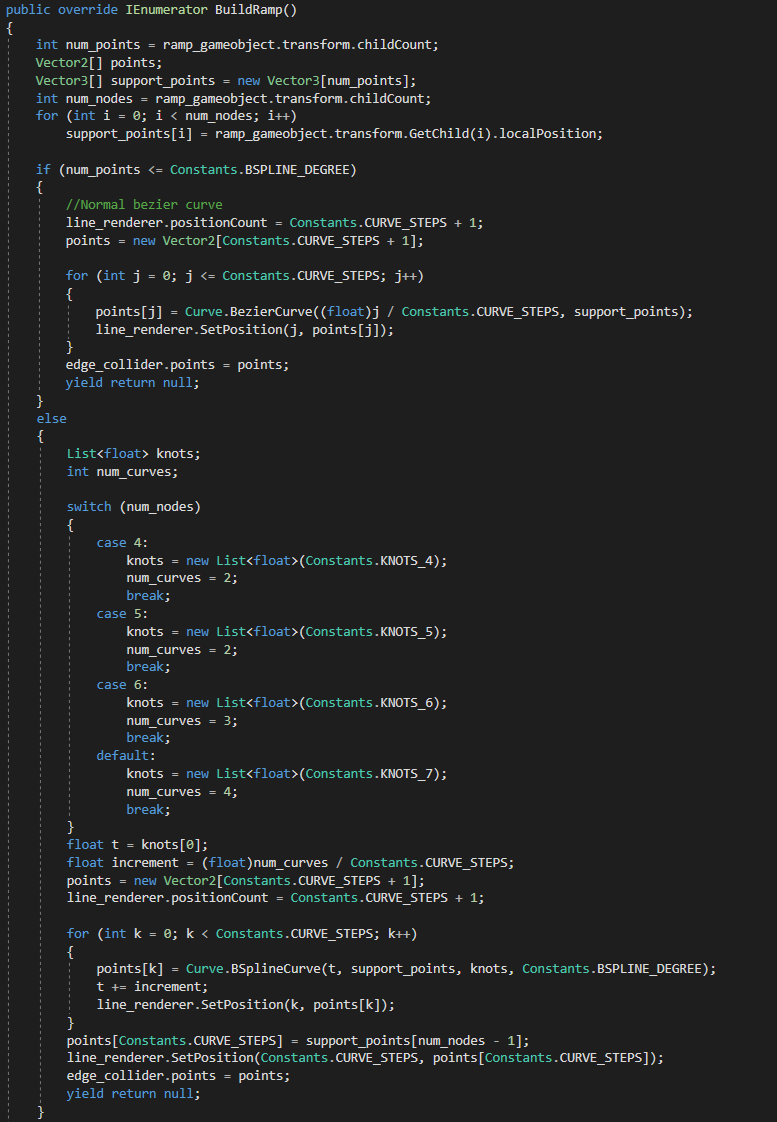
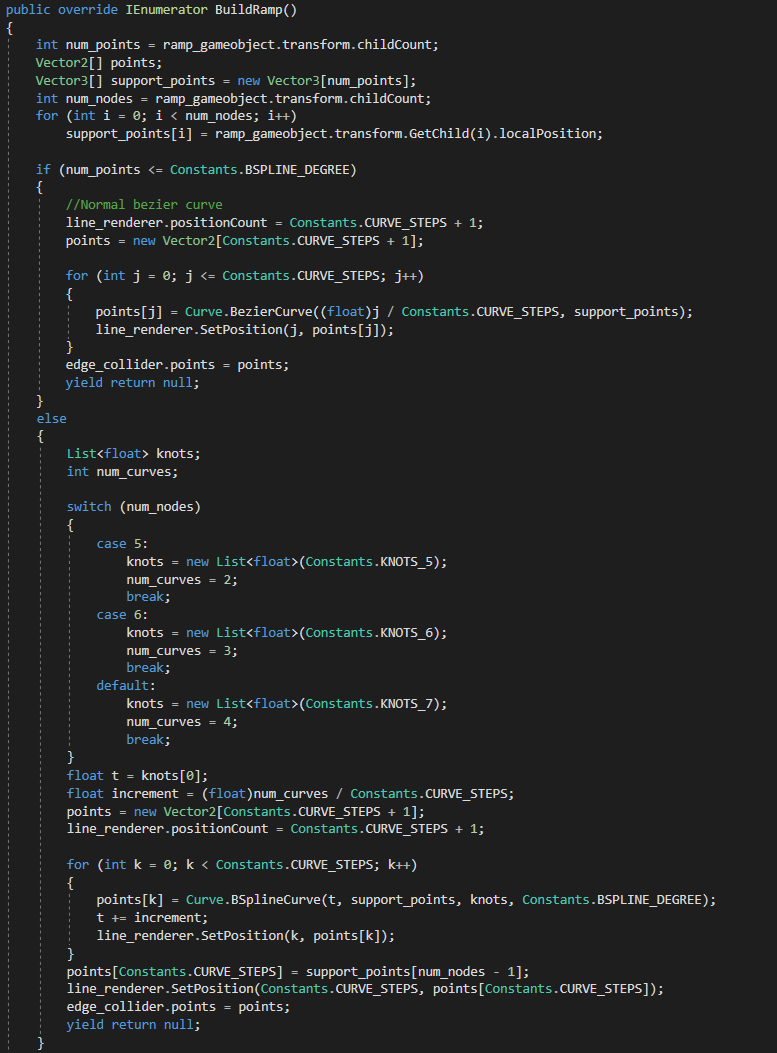
Website adjustments.

Changed region(s): [[0.0, 0.0, 0.9266, 1.0]]

diff --git a/website/theory.html b/website/theory.html
@@ -48,42 +48,41 @@
         </ul>
           Essendo il gioco 2D, tutte le curve sopracitate sono curve piane, ovvero, curve il cui poligono di controllo
           giace su un piano; questo implica che hanno torsione pari a 0.<br>
-          Ci sono anche le rampe segmentate, che sono ottenute creando segmenti lungo i punti del poligono di controllo.
-          Il progetto è stato sviluppato con il game engine di Unity; per ogni rampa curva mostrata in questa pagina,
-          verrà data la rispettiva definizione matematica, la definizione matematica implementata e il codice che disegna
-          la curva nel gioco. <br>
-          Le rampe curve create nel gioco, sono composte da 20 segmenti connessi tra loro, lungo i punti della curva(ottenuti tramite le definizioni matematiche).
+          In questa pagina vengono trattate le rampe curve, sia dal punto di vista matematico, sia dal punto di vista implementativo.<br>
+          Le rampe curve create nel gioco discretizzate in 20 segmenti connessi tra loro, lungo i punti della curva(ottenuti tramite le definizioni matematiche).
+          Oltre alle rampe curve, ci sono anche le rampe segmentate, che sono ottenute creando segmenti lungo i punti del poligono di controllo; essendo di semplice
+          costruzione, non sono trattate in questa pagina.<br>
+          Il progetto è stato sviluppato tramite il game engine di Unity.
         </p>
 
         <h3>Interpolazione</h3>
         <p>
-          Nel gioco sono presenti degli ostacoli che si muovono secondo dei percorsi prestabiliti; ogni percorso, è composto
-          da diversi nodi. <br>
-          Questi elementi si muovono tramite interpolazione, sfruttando le posizioni di coppie di nodi del percorso;
-          quando questo raggiunge il secondo nodo, l'ostacolo prenderà la coppia di nodi successivi e l'interpolazione riprende da 0. <br>
-          A ognuno di questi ostacoli viene associata un curva, definita su un intervallo variabile, che utilizza per eseguire l'interpolazione.
-          Alcuni oggetti si muovono, tramite interpolazione lineare, mentre altri in modo più strano grazie alle curve.<br>
-          A seguito il codice usato per la gestione del movimenti e una piccola dimostrazione visiva del risultato.<br>
+          Nel gioco sono presenti degli ostacoli che si muovono secondo dei percorsi prestabiliti; per spiegare come questi oggetti si muovono, consideriamo un ostacolo mobile, a cui viene associato il percorso 
+          \({P_0, P_{1} ... P_N}\).<br>
+          Gli ostacoli nel gioco si muovono per interpolazione tra coppie di punti del percorso assegnatogli. <br>
+          La prima coppia di punti considerata nell'esempio è \(P_0, P_1\); partendo da \(P_0\), prima o poi, a seconda della curva che utilizzano per l'interpolazione, 
+          l'ostacolo raggiunge il punto \(P_1\) del percorso; a quel punto, cambia la coppia di punti utilizzata per l'interpolazione in \(P_1, P_2\), riprendendo l'interpolazione da 0.<br>
+          Questo processo continua, finché non raggiunge il punto finale del percorso, ovvero \(P_N\); a quel punto, si riparte con la coppia \(P_0, P_1\). <br>
+          Tutti gli ostacoli si muovono seguendo questa logica, usando percorsi diversi e curve diverse. <br>
+          A seguito il codice usato per la gestione del movimenti e una piccola dimostrazione del risultato.<br>
           <img class="code_image" src="images/interpolation_code.PNG">
           <img class="centre_big_gif" src="images/obstacle.gif">
-          L'ostacolo che si muove nella gif sopra, si muove usando la curva sottostante per effettuare l'interpolazione.
+          L'ostacolo che si muove nella gif sopra, si muove usando la curva sottostante, sul percorso definito dai punti arancioni.
           <img class="centre_big_image" src="images/curve.png">
         </p>
         <h3 id="bezier">Curve di Beziér</h3>
         <p>
           Una curva di Beziér è una curva parametrica polinomiale definita sull'intervallo chiuso [0, 1]; per costruire
-          una curva di Beziér
-          per prima cosa bisogna definire N punti che andranno a costruire il suo poligono di controllo.<br>
-          Definiti N punti di controllo, il grado K della curva è pari a N-1, cioé il numero di
-          punti del poligono di controllo meno 1; come già detto nel manuale utente, per ogni curva, il giocatore può
-          usare al massimo 7 punti.<br> Questo significa che il grado massimo delle curve di Beziér utilizzate sarà 6.<br>
+          una curva di Beziér, bisogna definire \(N\) punti che andranno a costruire il suo poligono di controllo.<br>
+          \(N\) punti di controllo definiscono il grado della curva, che è  \(N-1\); come già detto nel manuale, per ogni curva, il giocatore può
+          usare al massimo 7 punti.<br> 
+          Questo significa che il grado massimo delle curve di Beziér utilizzate sarà 6.<br>
 
           Le curve di Beziér prodotte dal giocatore, sono costruite tramite i polinomi di Bernstein.
         </p>
         <h4>Algoritmo dei polinomi di Bernstein</h4>
         <p>
           Questo algoritmo descrive una curva di Beziér tramite i polinomi di Bernstein, definiti come segue:
-        <p>
           \(P(t) = \sum_{i = 0}^{k} B_i^k(t) * P_i\)<br>
         </p>
         <p>
@@ -112,18 +111,31 @@
           termina nel punto finale.<br>
           L'implementazione dell'algoritmo di Bernstein utilizzata è la seguente:
           <img class="code_image" src="images/bezier_code.PNG">
-          Mentre la sezione il codice che sfrutta l'algoritmo per creare la curva nello spazio di gioco è il seguente:
+          Mentre il codice nell'immagine di sotto, mostra come effettivamente la rampa viene costruita nel gioco.<br>
+          I punti del poligono di supporto sono definiti dalle posizioni in coordinate locali, rispetto alla trasformazione della curva; questa operazione è svolta dal primo ciclo. <br>
+          Nel secondo ciclo, la curva viene discretizzata in 21 punti, che vengono poi utilizzati dal LineRenderer(per disegnarla) e dall'EdgeCollider(per descriverla al motore fisico).<br>
+          Il codice qui mostrato è molto simile a quello usato alle altre curve: l'unica cosa che cambia sono le definizioni matematiche usate.<br>
           <img class="code_image" src="images/bezier_ramp.PNG">
+          Queste curve, nonostante siano semplici da definire e costruire, soffrono di 2 grossi problemi:
+        <ul>
+          <li>
+            Nessun controllo locale: ogni volta che modifichiamo una curva di Beziér esistente, cambiamo la definizione della curva stessa.
+          </li>
+          <li>
+            Non adatte per costruire curve lunghe: come sappiamo dalla teoria, il grado di una curva di Beziér dipende dal numero di punti; 
+            questo implica, che più punti definiamo per una curva, più la sua valutazione e modifica diventa più onerosa.<br>
+            Per questo motivo, si preferiscono le curve spline in questi contesti.
+          </li>
+        </ul>
         </p>
         <h3 id="hermite">Spline cubiche di Hermite</h3>
         <p>
           Una spline cubica di Hermite è una curva composta da curve di Beziér di grado 3, incollate
-          lungo i punti del poligono di controllo con incollamento C1; essendo ogni frammento della spline una curva di Beziér, tutte le sue parti
-          sono definite da funzioni polinomiali definite sul medesimo intervallo [0, 1].<br>
-          A differenza delle curve di Beziér però, l'interpolazione nei vari frammenti della spline, viene fatta considerando una a una, le coppie di punti (del poligono di controllo)
-          ai quali vengono associati anche dei vettori tangenti.<br>
+          lungo i punti del poligono di controllo con incollamento C1; tutte le parti sono parametrizzate sul medesimo intervallo [0, 1].<br>
+          Per definire queste spline, oltre a fornire gli \(N\) punti del poligono di controllo, bisogna anche definire gli \(N\) vettori tangenti 
+          associati a questi.<br>
+          Questi vettori tangenti, impongono le direzioni tangenti, che le varie curve di Beziér devono rispettare lungo la spline; questo implica che gli incollamenti della curva sono di tipo \(C1\).<br>
           Le curve di Hermite che si possono costruire nel gioco, possono avere al massimo 7 punti.<br>
-
           La definizione matematica di queste spline è basata sui polinomi di Hermite \(H\): dati i punti \(Q_0\) e \(Q_1\) ai quali sono associati i vettori tangenti \(m_0\) e \(m_1\), 
           è possibile definire i punti di controllo \(P_0\),\(P_1\),\(P_2\) e \(P_3\) di un frammento della curva in questo modo:
         </p>
@@ -166,11 +178,13 @@
           <img class="code_image" src="images/hermite_code.PNG">
           Il modulo dei vettori associati a ciascun punto è una costante(6). 
           <img class="code_image" src="images/hermite_ramp.PNG">
+          Questo tipo di curve, sono preferite rispetto alle classiche curve di Beziér perché non soffrono dei problemi precedentemente citati.
+
         </p>   
         <h3 id="bspline">B-Spline</h3>
         <p>
-          Le curve b-spline, come le spline cubiche di Hermite sono curve composte da curve di Beziér(di grado 3 in questo progetto) opportunamente incollate; le b-spline, a differenza 
-          delle cubiche di Hermite, non passano nei punti identificati dal poligono di controllo, ma si limitano ad approssimarli.<br>
+          Le curve b-spline, come le spline cubiche di Hermite sono curve composte da curve di Beziér opportunamente incollate; a differenza 
+          delle cubiche di Hermite, non passano nei punti identificati dal poligono di controllo, ma si limitano ad approssimare i punti del poligono di controllo.<br>
           Il dominio di queste curve diversamente da quelle che abbiamo visto fin'ora, non necessariamente è [0, 1]. <br>
           Esistono 3 tipi di b-spline:
           <ul>
@@ -184,14 +198,21 @@
               b-spline non uniformi razionali: chiamate anche "nurbs", definite come rapporto di curve polinomiali. 
             </li>
           </ul>
-          In Spline Ramp, le b-spline generate sono tutte b-spline cubiche uniformi, composte al massimo da 7 punti; 
-          questo vuol dire, che se i punti usati per il poligono di controllo sono meno di 4, quello che si produrrà sarà una curva di Beziér di quel grado. <br>
-          La parametrizzazione degli elementi di una b-spline sfrutta un vettore di valori, chiamato vettore nodi, che contiene una sequenza di valori crescenti. <br>
-          Ciascuna coppia di valori nodali \(t_i\) e \(t_{i+1}\) sono i parametri di interpolazione, utilizzati da una certa curva che compone la b-spline.<br>
-          I valori contenuti in questo vettore, possono essere ripetuti, alterando la continuità della curva che si andrà a costruire; in particolare, ripetendo 
-          un valore nodale nel vettore nodi, tante volte quante il grado delle curve di Beziér usate, forzerà la curva a passare per tale punto. <br>
+          In Spline Ramp, le b-spline generate sono tutte b-spline cubiche non-uniformi, composte al massimo da 7 punti. <br>
+          Il numero di curve incollate dipende dal numero di punti del poligono di controllo; supponiamo di avere la seguente sequenza di punti \(P_1, P_2 ... P_N\). <br>
+          Con \(N\) punti del poligono di controllo, si incollano \(N-3\) curve di Beziér cubiche (se \(N \gt 4\)).<br>
+          Nel caso in cui, il giocatore fornisca un numero di punti \(N\le 4\) per la costruzione della b-spline, l'applicazione genererà una curva di Beziér di grado \(N-1\). <br>
+          La parametrizzazione degli elementi di una b-spline sfrutta un vettore di valori crescenti, chiamato vettore nodi; ciascuna coppia di valori nodali \(t_i\) e \(t_{i+1}\) sono i parametri di interpolazione, utilizzati da una certa curva che compone la b-spline.
+          I valori contenuti in questo vettore, possono essere ripetuti, alterando la continuità della curva che si andrà a costruire.<br>
+          In particolare, ripetendo un valore nodale tante volte quante il grado \(K\) delle curve di Beziér usate, forzerà la curva a passare per tale punto. <br>
           Nel progetto infatti, i valori nodali iniziali e finali sono ripetuti 3 volte, per forzare le curve a passare per il punto iniziale e finale. <br>
-          L'implementazione scelta per la costruzione di queste curve è l'algoritmo di DeBoor-Cox.
+          Il tipo di incollamento di queste curve dipende da due elementi: la molteplicità del valore nodale in un certo nodo e il grado delle curve di Beziér incollate; dato quindi un nodo 
+          con molteplicità \(P\) e curve di grado \(K\), il tipo di incollamento presso quel nodo è di tipo \(C^{K-P}\); questo significa che nei punti iniziali e finali, le curve sono continue, ma non derivabili, 
+          mentre gli incollamenti interni sono tutti \(C2\) (supponendo che non ci siano nodi interni ripetuti). <br>
+          Deve inoltre valere una condizione tra il numero dei nodi \(M\), il grado della spline \(K\) e il grado delle curve di Beziér usate: \(M=N+K+1\).<br>
+          Un'ultima proprietà particolare di queste curve è relativa al grado delle curve di Beziér utilizzate: più è basso il grado delle curve di Beziér utilizzate, più la b-spline ottenuta approssima meglio il 
+          poligono di controllo fornito.<br>
+          Fatte queste premesse, passiamo quindi alla descrizione di queste curve tramite l'algoritmo di DeBoor-Cox.
         </p>
 
         <h4>Algoritmo di DeBoor-Cox</h4>
@@ -199,7 +220,7 @@
           Questo algoritmo definisce un punto della b-spline come somma dei punti del poligono di controllo, moltiplicati per funzioni base:
         </p>
         <p>
-          \(P(t) = \sum_{i = 0}^{m} B_{i, k}(t) * P_i\)<br>
+          \(P(t) = \sum_{i = 0}^{n-1} B_{i, k}(t) * P_i\)<br>
         </p>
         <p>
           Spieghiamo i termini e gli indici e termini che compaiono nella sommatoria appena scritta:
@@ -210,10 +231,10 @@
             \(P_i\): sono i punti del poligono di controllo
           </li>
           <li>
-            \(B_{i, k}(t)\): è una funzione base di \(i\) e \(k\) valutata su \(t\); a breve la definizione.
+            \(B_{i, k}(t)\): è una funzione base di \(i\) e \(k\) valutata su \(t\).
           </li>
           <li>
-            \(m\): è il numero di punti del poligono di controllo
+            \(n\): è il numero di punti del poligono di controllo
           </li>
           <li>
             \(k\): è il grado della b-spline(3)
@@ -232,7 +253,21 @@
           Questa definizione produce molte volte \(\frac{0}{0}\) che vengono gestiti come fattori 0.<br>
           A seguito il codice che implementa il tutto.
           <img class="code_image" src="images/bspline_code.PNG">
-          Questo è il codice che sfrutta la definizione matematica, per costruire la rampa nel gioco.
+          Questo è il codice che sfrutta la definizione matematica, per costruire la rampa nel gioco.<br>
+          Come si può vedere, nel caso in cui il numero di punti sia minore o uguale a 4, la curva prodotta è una normale curva di Beziér; in tutti gli altri casi, 
+          la b-spline è costruita.<br>
+          I vettori dei nodi sono vettori costanti sifatti: <br>
+          <ul>
+            <li>
+              KNOTS_5 = [0, 0, 0, 0, 1, 2, 2, 2, 2]
+            </li>
+            <li>
+              KNOTS_6 = [0, 0, 0, 0, 1, 2, 3, 3, 3, 3]
+            </li>
+            <li>
+              KNOTS_7 = [0, 0, 0, 0, 1, 2, 3, 4, 4, 4, 4]
+            </li>
+          </ul>
           <img class="code_image" src="images/bspline_ramp.PNG">
         </p>
       </div>

diff --git a/index.html b/index.html
@@ -14,11 +14,11 @@
   <body style="background-color:black;">
     <div class="container-fluid">
         <div class="row justify-content-center">
-            <div class="col">
-              <a href="index.html">
-                <img class="img-fluid mx-auto d-block" src="website/images/banner.png">
-              </a>
-            </div>
+          <div class="col">
+            <a href="index.html">
+              <img class="img-fluid mx-auto d-block" src="website/images/banner.png">
+            </a>
+          </div>
         </div>
         <div class="row pt-4">
           <div class="col text-center">
@@ -36,11 +36,11 @@
         <div class="row pt-4 pb-4">
           <div class="panel_index col">
             <p>
-              Spline ramp è puzzle game sviluppato da Pietro Prebianca, per il corso di Geometria Computazionale nell'a.a 2020/21.<br>
+              Spline ramp è un puzzle game sviluppato da Pietro Prebianca, per il corso di Geometria Computazionale nell'a.a 2020/21.<br>
               Nel gioco, il giocatore dovrà creare una rampa curva, per permettere a una palla di raggiungere il canestro; il progetto
               e il codice sorgente del gioco sono clonabili da <a href="https://github.com/Kegbird/SplineRamp">questa</a> repository.
             </p>
-              <img class="intro_gif text-center" src="website/images/game_example.gif">
+              <img class="centre_big_gif text-center" src="website/images/game_example.gif">
             </div>
        </div>
     </div>

diff --git a/website/game.html b/website/game.html
@@ -20,21 +20,19 @@
   <body style="background-color:black;">
     <div class="container pt-4">
       <div class="row justify-content-center">
-        <div class="col-*-*">
+        <div class="col text-center">
           <a href="../index.html">
             <img src="images/banner.png">
           </a>
         </div>
       </div>
-      <div class="row pt-4 pb-4 justify-content-center">
-        <div class="col-*-* mx-4">
-          <a href="game.html">
-            <button type="button" class="btn btn-light btn-lg">Gioca!</button>
+      <div class="row pt-4 pb-4">
+        <div class="col text-center">
+          <a href="manual.html">
+          <button type="button" class="btn btn-light btn-lg">Manuale</button>
           </a>
-        </div>
-        <div class="col-*-* mx-4">
           <a href="theory.html">
-            <button type="button" class="btn btn-light btn-lg">Teoria</button>
+          <button type="button" class="btn btn-light btn-lg">Teoria</button>
           </a>
         </div>
       </div>

diff --git a/website/css/style.css b/website/css/style.css
@@ -60,7 +60,7 @@ body {
     margin-left: 15% !important;
     margin-right: 15% !important;
     width: 70%;
-    padding: 1.0%;
+    padding: 2.5%;
     border-radius: 25px;
     background-color: #b6b6b6;
 }
@@ -73,10 +73,10 @@ body {
 }
 
 .panel_game {
-    margin-right: 5%;
-    margin-left: 5%;
-    width: 90%;
-    padding: 1.0%;
+    margin-left: 10% !important;
+    margin-right: 10% !important;
+    width: 80%;
+    padding: 2.5%;
     border-radius: 25px;
     background-color: #b6b6b6;
 }
@@ -85,7 +85,7 @@ body {
     margin-left: 10% !important;
     margin-right: 10% !important;
     width: 80%;
-    padding: 1.0%;
+    padding: 2.5%;
     border-radius: 25px;
     background-color: #b6b6b6;
 }

diff --git a/Spline Ramp/Assets/Scripts/Ramps/BSplineRamp.cs b/Spline Ramp/Assets/Scripts/Ramps/BSplineRamp.cs
@@ -20,7 +20,7 @@ namespace Assets.Scripts.Ramps
             for (int i = 0; i < num_nodes; i++)
                 support_points[i] = ramp_gameobject.transform.GetChild(i).localPosition;
 
-            if (num_points <= Constants.BSPLINE_DEGREE)
+            if (num_points-1 <= Constants.BSPLINE_DEGREE)
             {
                 //Normal bezier curve
                 line_renderer.positionCount = Constants.CURVE_STEPS + 1;
@@ -41,10 +41,6 @@ namespace Assets.Scripts.Ramps
 
                 switch (num_nodes)
                 {
-                    case 4:
-                        knots = new List<float>(Constants.KNOTS_4);
-                        num_curves = 2;
-                        break;
                     case 5:
                         knots = new List<float>(Constants.KNOTS_5);
                         num_curves = 2;

diff --git a/Spline Ramp/Assets/Scripts/Constants.cs b/Spline Ramp/Assets/Scripts/Constants.cs
@@ -33,7 +33,6 @@ namespace Assets.Scripts
         public static int MAX_SUPPORT_POINTS = 7;
         public static float ROTATION_SPEED = 10f;
         public static Dictionary<int, int> coin_per_level = new Dictionary<int, int>();
-        public static float[] KNOTS_4 = { 0f, 0f, 0f, 1f, 2f, 2f, 2f, 2f};
         public static float[] KNOTS_5 = { 0f, 0f, 0f, 0f, 1f, 2f, 2f, 2f, 2f };
         public static float[] KNOTS_6 = { 0f, 0f, 0f, 0f, 1f, 2f, 3f, 3f, 3f, 3f };
         public static float[] KNOTS_7 = { 0f, 0f, 0f, 0f, 1f, 2f, 3f, 4f, 4f, 4f, 4f };

diff --git a/Spline Ramp/Assets/Scripts/Levels/Obstacle.cs b/Spline Ramp/Assets/Scripts/Levels/Obstacle.cs
@@ -1,4 +1,5 @@
-using UnityEngine;
+using System;
+using UnityEngine;
 using Assets.Scripts.Ramps;
 
 namespace Assets.Scripts.Levels
